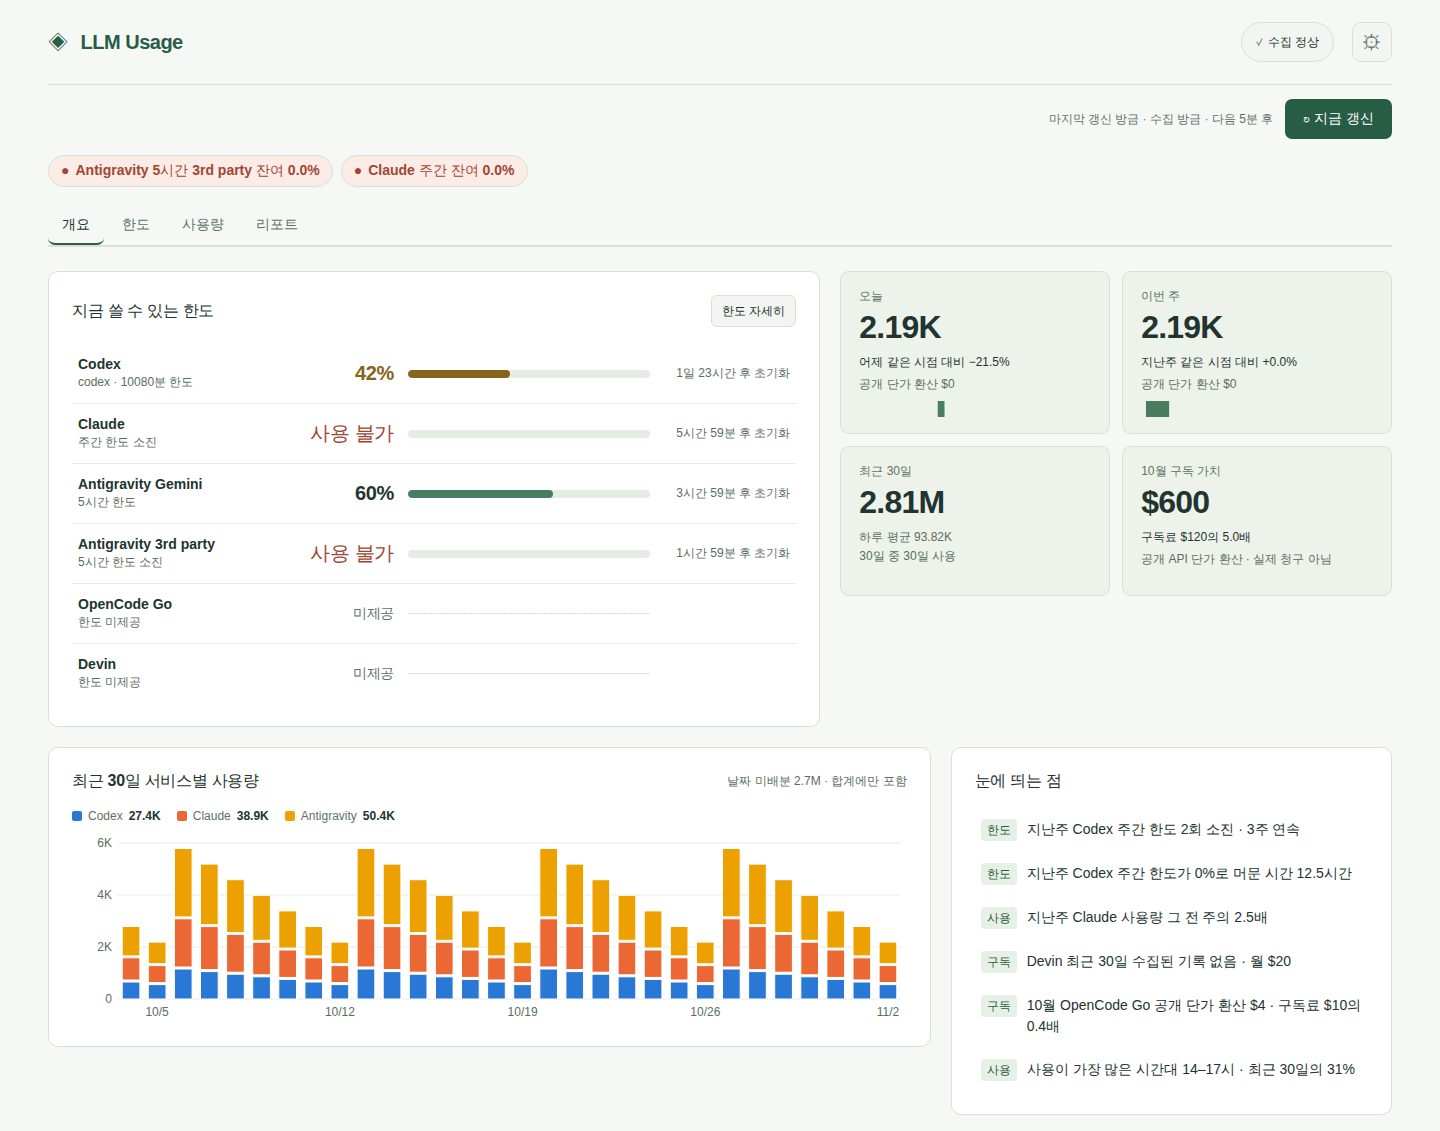
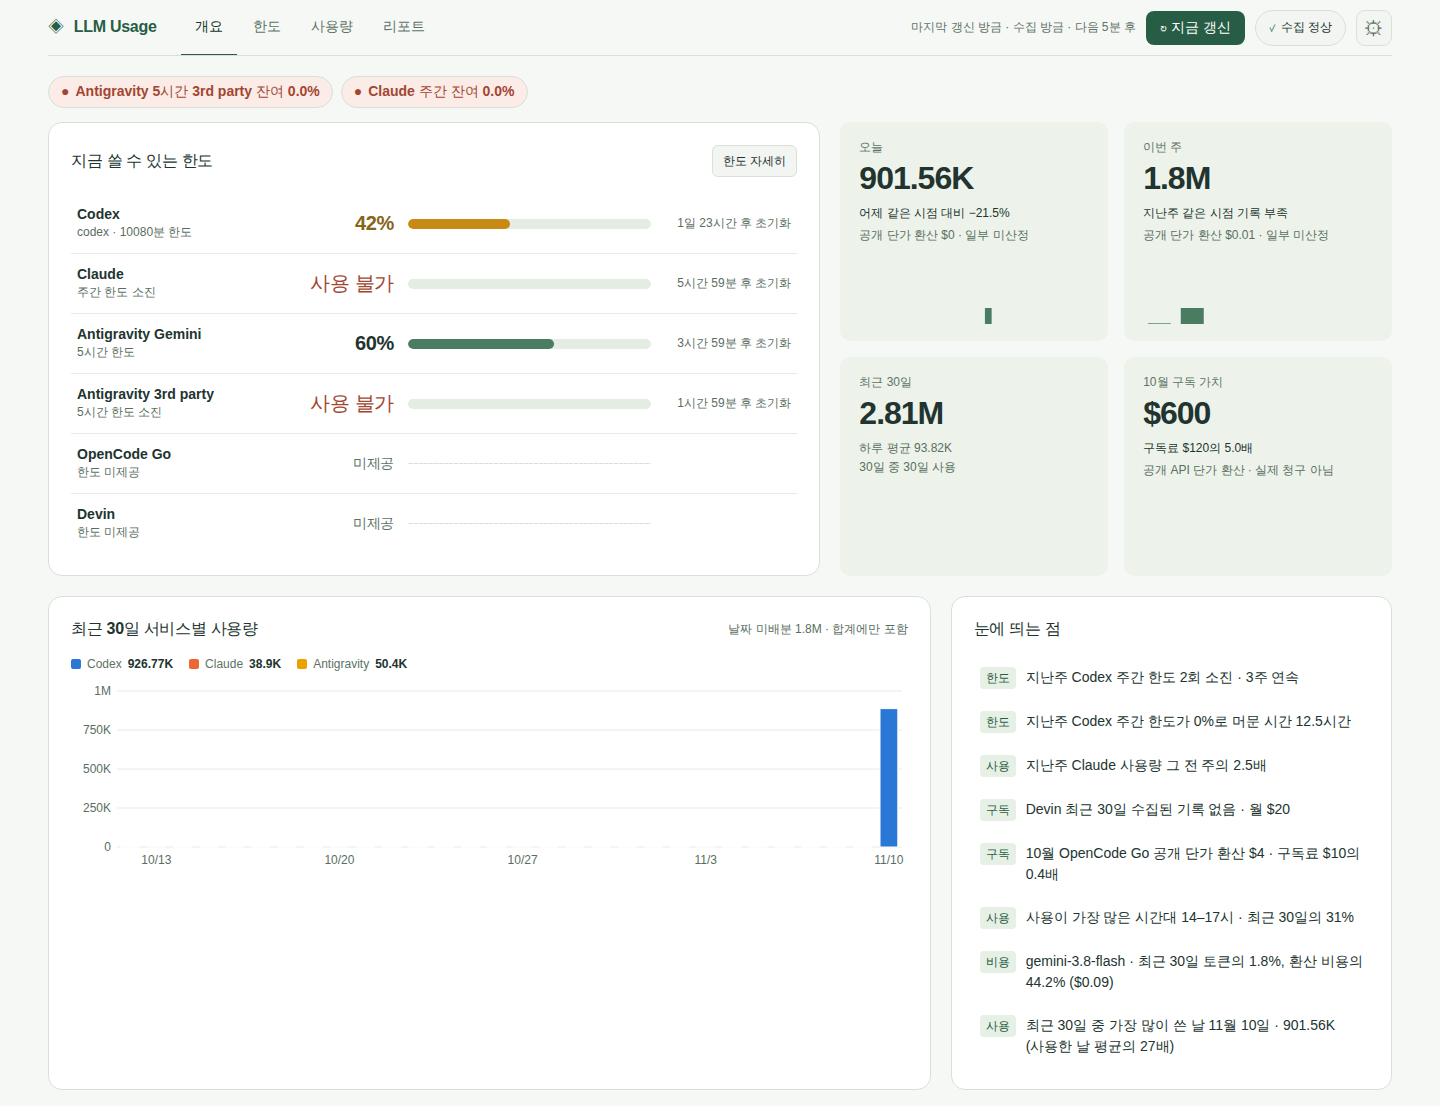
docs: prepare 0.13.0 release

diff --git a/CHANGELOG.md b/CHANGELOG.md
@@ -1,5 +1,18 @@
 # 변경 기록
 
+## 0.13.0 — 2026-11-10
+
+- 브랜드·탭·갱신·데이터 상태·설정을 한 줄의 고정 상단 바로 합쳐 내용이 더 위에서 시작합니다. 모서리 반경과 표 머리글을 정리하고 한도 막대에 전용 색을 줬으며, 개요의 타일·패널 높이를 맞췄습니다. 한도 탭 `다음 초기화`의 시각이 패널 밖으로 나가던 문제를 고쳤습니다.
+- 비용이 어디서 나오는지 보여 줍니다. 사용량 탭의 토큰 구성 아래에 **비용 구성**(일반 입력·캐시 읽기·출력·캐시 생성별 환산 비용)을 두고, 모델 표에 토큰 100만 개당 환산 비용을 적습니다. 개요의 상위 모델·프로젝트에 환산 비용을 병기하고, 비용 비중이 토큰 비중보다 크게 높은 모델을 `비용` 사실로 보여 줍니다.
+- 내장 단가표를 2026-11-10 공개 단가로 갱신했습니다. Claude Fable 5~5.2·Opus 4.1~5·Sonnet 4.5~5.5·Haiku 4.5·5.5, GPT-6 Astra·6.1 Terra, Gemini 3.1 Pro·4 Argon, Muse Spark 1.2·1.3, DeepSeek V4.1 Flash를 추가하고 Gemini 2.5의 캐시 단가를 고쳤습니다. 길이·시간대별 단가가 있는 모델은 기본 구간으로 환산합니다.
+- 계정을 확인하지 못한 로컬 한도 관측에 소진·잔여 알림이 나가던 문제, 방해 금지 뒤 요약에서 주간 리포트 본문이 빠지던 문제, 알림 전송 오류로 텔레그램 토큰이 로그에 남을 수 있던 문제를 고쳤습니다.
+- 손으로 쓴 단가 파일의 `null`·문자열 값이 사용량 조회와 수집기의 알림·리포트 단계를 멈추던 문제를 고쳤습니다. 웹 단가 수정은 고친 모델만 기록하고, 입력·출력이 없는 단가는 거절하며, 비운 캐시 단가는 지웁니다.
+- 형식이 잘못된 레코드 하나가 그 소스의 수집 전체를 멈추던 문제를 고치고, 닫힌 WAL 데이터베이스를 읽을 때 그 옆에 파일을 만들지 않습니다.
+- Codex 작업 목록의 식별할 수 없는 항목 하나가 그 뒤 수집을 막던 문제를 고치고, 실패한 작업 상세는 5분마다가 아니라 한 시간(삭제된 작업은 하루)에 한 번 다시 요청합니다. 제공사의 `Retry-After`는 하루까지만 따릅니다.
+- 거절된 저장·테스트 요청이 설정 입력을 모두 비우던 문제, 직접 고른 기간의 끝 날짜가 하루 이르게 보이던 문제, 단가 없는 모델이 비용 순위에서 `$0`으로 보이던 문제, `관측 중단` 접힘과 캐시 추이 선택이 갱신 때 초기화되던 문제를 고쳤습니다.
+- 주간 리포트의 전주 대비 증감은 그 전 주 전체가 기록 범위에 들어올 때만 계산합니다.
+- 런타임 의존성·DB 구조·수집 방식은 0.12.0과 같아 [기존 업데이트 명령](docs/operations.md#0130-업데이트)으로 업데이트합니다. 개인 단가 파일에 같은 이름의 모델이 있으면 내장 단가보다 우선합니다.
+
 ## 0.12.0 — 2026-11-02
 
 - 배포기가 릴리스마다 그 릴리스의 `uv.lock`으로 전용 가상환경 `releases/<commit>/.venv`를 만듭니다. uv 0.12.23으로 개발 그룹 없이 동기화하고 바이트코드를 미리 컴파일하며, 완성된 환경에만 표식을 남깁니다. 환경을 만들지 못하면 서비스와 `current` 링크를 바꾸지 않습니다.

diff --git a/README.md b/README.md
@@ -5,7 +5,7 @@ Linux/WSL에서 실행하며 Tailscale 소유자 계정으로만 접근합니다
 
 A self-hosted dashboard for LLM quotas and usage. Linux/WSL, private Tailscale access, local-first collection. Korean UI and documentation. Independent project; not an official provider product.
 
-현재 릴리스: **[v0.12.0](https://github.com/jihoon22-lee/llm-usage-dashboard/releases/tag/v0.12.0)** · [변경 기록](CHANGELOG.md)
+현재 릴리스: **[v0.13.0](https://github.com/jihoon22-lee/llm-usage-dashboard/releases/tag/v0.13.0)** · [변경 기록](CHANGELOG.md)
 
 수집 기준: [클라우드 누계 대조·한국시간 미배분량·선택적 telemetry](docs/collection-reconciliation.md).
 
@@ -77,7 +77,7 @@ Python 3.11+, uv 0.12.23, Git, systemd가 실행되는 Linux/WSL, 로그인된 T
 서버 경로·홈에는 ASCII 영문자·숫자·`_ . / -`만 사용할 수 있습니다. 먼저 [설치 안내](docs/setup.md)를 확인하세요.
 
 ```bash
-git clone --branch v0.12.0 https://github.com/jihoon22-lee/llm-usage-dashboard.git
+git clone --branch v0.13.0 https://github.com/jihoon22-lee/llm-usage-dashboard.git
 cd llm-usage-dashboard
 git switch -c main
 uv sync --locked --no-dev
@@ -86,7 +86,7 @@ uv sync --locked --no-dev
 sudo ./install.sh --owner "$USER"
 ```
 
-v0.12.0의 고정된 설치 절차입니다. 태그 clone의 detached HEAD에서 설치·업데이트용 로컬 main을 생성합니다. 개발 최신 코드는 원격 main을 사용하세요. 기존 v0.1.0에는 uv.lock이 없으며, 업데이트는 [의존성 전환 안내](docs/operations.md)를 따릅니다.
+v0.13.0의 고정된 설치 절차입니다. 태그 clone의 detached HEAD에서 설치·업데이트용 로컬 main을 생성합니다. 개발 최신 코드는 원격 main을 사용하세요. 기존 v0.1.0에는 uv.lock이 없으며, 업데이트는 [의존성 전환 안내](docs/operations.md)를 따릅니다.
 
 수집은 로컬 기록을 읽고 기존 인증으로 계정 한도를 조회합니다. Windows와 상태줄 연결은 [명시적으로 선택](docs/setup.md)합니다.
 설치기가 출력하는 개인 Tailscale 주소로 접속합니다. Funnel로 인터넷에 공개하지 않습니다.
